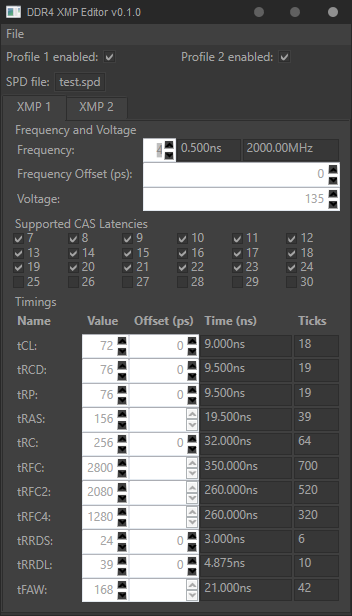
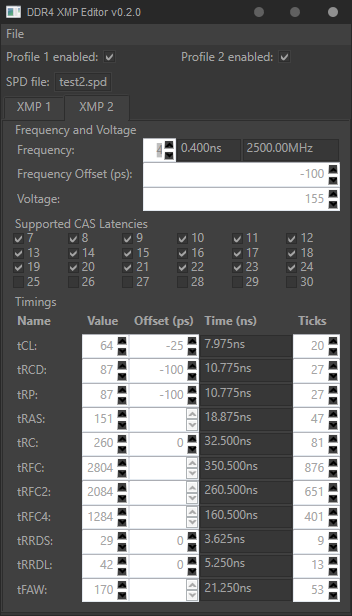
Make ticks column editable

diff --git a/Pages/XMPEditorView.xaml b/Pages/XMPEditorView.xaml
@@ -128,7 +128,8 @@
                                     Maximum="127"/>
                 <TextBox Grid.Row="1" Grid.Column="3" IsReadOnly="True"
                          Text="{Binding tCLTime, StringFormat={}{0:F3}ns, Mode=OneWay}"/>
-                <TextBox Grid.Row="1" Grid.Column="4" IsReadOnly="True" Text="{Binding tCL, Mode=OneWay}"/>
+                <xctk:IntegerUpDown Grid.Row="1" Grid.Column="4" Value="{Binding tCL}" Minimum="0" 
+                                    Maximum="30"/>
 
                 <Label Grid.Row="2" Grid.Column="0" Content="tRCD:"/>
                 <xctk:IntegerUpDown Grid.Row="2" Grid.Column="1" Value="{Binding Profile.RCDTicks}" Minimum="0"
@@ -137,7 +138,8 @@
                                     Maximum="127"/>
                 <TextBox Grid.Row="2" Grid.Column="3" IsReadOnly="True"
                          Text="{Binding tRCDTime, StringFormat={}{0:F3}ns, Mode=OneWay}"/>
-                <TextBox Grid.Row="2" Grid.Column="4" IsReadOnly="True" Text="{Binding tRCD, Mode=OneWay}"/>
+                <xctk:IntegerUpDown Grid.Row="2" Grid.Column="4" Value="{Binding tRCD}" Minimum="0" 
+                                    Maximum="64"/>
                 
                 <Label Grid.Row="3" Grid.Column="0" Content="tRP:"/>
                 <xctk:IntegerUpDown Grid.Row="3" Grid.Column="1" Value="{Binding Profile.RPTicks}" Minimum="0"
@@ -146,7 +148,8 @@
                                     Maximum="127"/>
                 <TextBox Grid.Row="3" Grid.Column="3" IsReadOnly="True"
                          Text="{Binding tRPTime, StringFormat={}{0:F3}ns, Mode=OneWay}"/>
-                <TextBox Grid.Row="3" Grid.Column="4" IsReadOnly="True" Text="{Binding tRP, Mode=OneWay}"/>
+                <xctk:IntegerUpDown Grid.Row="3" Grid.Column="4" Value="{Binding tRP}" Minimum="0" 
+                                    Maximum="64"/>
 
                 <Label Grid.Row="4" Grid.Column="0" Content="tRAS:"/>
                 <xctk:IntegerUpDown Grid.Row="4" Grid.Column="1" Value="{Binding Profile.RASTicks}" Minimum="0"
@@ -155,7 +158,8 @@
                 <TextBox Grid.Row="4" Grid.Column="3" IsReadOnly="True"
                          Text="{Binding Profile.RASTicks, StringFormat={}{0:F3}ns, 
                                 Converter={StaticResource TicksToTimeConverter}}"/>
-                <TextBox Grid.Row="4" Grid.Column="4" IsReadOnly="True" Text="{Binding tRAS, Mode=OneWay}"/>
+                <xctk:IntegerUpDown Grid.Row="4" Grid.Column="4" Value="{Binding tRAS}" Minimum="0" 
+                                    Maximum="128"/>
 
                 <Label Grid.Row="5" Grid.Column="0" Content="tRC:"/>
                 <xctk:IntegerUpDown Grid.Row="5" Grid.Column="1" Value="{Binding Profile.RCTicks}" Minimum="0"
@@ -164,7 +168,8 @@
                                     Maximum="127"/>
                 <TextBox Grid.Row="5" Grid.Column="3" IsReadOnly="True"
                          Text="{Binding tRCTime, StringFormat={}{0:F3}ns, Mode=OneWay}"/>
-                <TextBox Grid.Row="5" Grid.Column="4" IsReadOnly="True" Text="{Binding tRC, Mode=OneWay}"/>
+                <xctk:IntegerUpDown Grid.Row="5" Grid.Column="4" Value="{Binding tRC}" Minimum="0" 
+                                    Maximum="128"/>
 
                 <Label Grid.Row="6" Grid.Column="0" Content="tRFC:"/>
                 <xctk:IntegerUpDown Grid.Row="6" Grid.Column="1" Value="{Binding Profile.RFCTicks}" Minimum="0"
@@ -173,7 +178,8 @@
                 <TextBox Grid.Row="6" Grid.Column="3" IsReadOnly="True"
                          Text="{Binding Profile.RFCTicks, StringFormat={}{0:F3}ns, 
                                 Converter={StaticResource TicksToTimeConverter}}"/>
-                <TextBox Grid.Row="6" Grid.Column="4" IsReadOnly="True" Text="{Binding tRFC, Mode=OneWay}"/>
+                <xctk:IntegerUpDown Grid.Row="6" Grid.Column="4" Value="{Binding tRFC}" Minimum="0" 
+                                    Maximum="1024"/>
 
                 <Label Grid.Row="7" Grid.Column="0" Content="tRFC2:"/>
                 <xctk:IntegerUpDown Grid.Row="7" Grid.Column="1" Value="{Binding Profile.RFC2Ticks}" Minimum="0"
@@ -182,16 +188,18 @@
                 <TextBox Grid.Row="7" Grid.Column="3" IsReadOnly="True"
                          Text="{Binding Profile.RFC2Ticks, StringFormat={}{0:F3}ns, 
                                 Converter={StaticResource TicksToTimeConverter}}"/>
-                <TextBox Grid.Row="7" Grid.Column="4" IsReadOnly="True" Text="{Binding tRFC2, Mode=OneWay}"/>
+                <xctk:IntegerUpDown Grid.Row="7" Grid.Column="4" Value="{Binding tRFC2}" Minimum="0" 
+                                    Maximum="1024"/>
 
                 <Label Grid.Row="8" Grid.Column="0" Content="tRFC4:"/>
                 <xctk:IntegerUpDown Grid.Row="8" Grid.Column="1" Value="{Binding Profile.RFC4Ticks}" Minimum="0"
                                     Maximum="65535"/>
                 <xctk:IntegerUpDown Grid.Row="8" Grid.Column="2" IsEnabled="False"/>
                 <TextBox Grid.Row="8" Grid.Column="3" IsReadOnly="True"
-                         Text="{Binding Profile.RFC2Ticks, StringFormat={}{0:F3}ns, 
+                         Text="{Binding Profile.RFC4Ticks, StringFormat={}{0:F3}ns, 
                                 Converter={StaticResource TicksToTimeConverter}}"/>
-                <TextBox Grid.Row="8" Grid.Column="4" IsReadOnly="True" Text="{Binding tRFC4, Mode=OneWay}"/>
+                <xctk:IntegerUpDown Grid.Row="8" Grid.Column="4" Value="{Binding tRFC4}" Minimum="0" 
+                                    Maximum="1024"/>
 
                 <Label Grid.Row="9" Grid.Column="0" Content="tRRDS:"/>
                 <xctk:IntegerUpDown Grid.Row="9" Grid.Column="1" Value="{Binding Profile.RRDSTicks}" Minimum="0"
@@ -200,8 +208,9 @@
                                     Maximum="127"/>
                 <TextBox Grid.Row="9" Grid.Column="3" IsReadOnly="True"
                          Text="{Binding tRRDSTime, StringFormat={}{0:F3}ns, Mode=OneWay}"/>
-                <TextBox Grid.Row="9" Grid.Column="4" IsReadOnly="True" Text="{Binding tRRDS, Mode=OneWay}"/>
-                
+                <xctk:IntegerUpDown Grid.Row="9" Grid.Column="4" Value="{Binding tRRDS}" Minimum="0" 
+                                    Maximum="64"/>
+
                 <Label Grid.Row="10" Grid.Column="0" Content="tRRDL:"/>
                 <xctk:IntegerUpDown Grid.Row="10" Grid.Column="1" Value="{Binding Profile.RRDLTicks}" Minimum="0"
                                     Maximum="255"/>
@@ -209,8 +218,9 @@
                                     Maximum="127"/>
                 <TextBox Grid.Row="10" Grid.Column="3" IsReadOnly="True"
                          Text="{Binding tRRDLTime, StringFormat={}{0:F3}ns, Mode=OneWay}"/>
-                <TextBox Grid.Row="10" Grid.Column="4" IsReadOnly="True" Text="{Binding tRRDL, Mode=OneWay}"/>
-                
+                <xctk:IntegerUpDown Grid.Row="10" Grid.Column="4" Value="{Binding tRRDL}" Minimum="0" 
+                                    Maximum="64"/>
+
                 <Label Grid.Row="11" Grid.Column="0" Content="tFAW:"/>
                 <xctk:IntegerUpDown Grid.Row="11" Grid.Column="1" Value="{Binding Profile.FAWTicks}" Minimum="0"
                                     Maximum="4095"/>
@@ -218,7 +228,8 @@
                 <TextBox Grid.Row="11" Grid.Column="3" IsReadOnly="True"
                          Text="{Binding Profile.FAWTicks, StringFormat={}{0:F3}ns, 
                                 Converter={StaticResource TicksToTimeConverter}}"/>
-                <TextBox Grid.Row="11" Grid.Column="4" IsReadOnly="True" Text="{Binding tFAW, Mode=OneWay}"/>
+                <xctk:IntegerUpDown Grid.Row="11" Grid.Column="4" Value="{Binding tFAW}" Minimum="0" 
+                                    Maximum="128"/>
             </Grid>
         </GroupBox>
     </StackPanel>

diff --git a/Pages/ShellView.xaml b/Pages/ShellView.xaml
@@ -7,7 +7,7 @@
         xmlns:s="https://github.com/canton7/Stylet"
         mc:Ignorable="d"
         d:DataContext="{d:DesignInstance local:ShellViewModel}"
-        Title="DDR4 XMP Editor v0.1.1" Height="620" Width="360">
+        Title="DDR4 XMP Editor v0.2.0" Height="620" Width="360">
     <StackPanel>
         <ContentControl s:View.Model="{Binding MenuBar}"/>
         <ContentControl s:View.Model="{Binding Editor}"/>

diff --git a/Pages/XMPEditorViewModel.cs b/Pages/XMPEditorViewModel.cs
@@ -111,7 +111,7 @@ namespace DDR4XMPEditor.Pages
                 int? ticks = DRAMTicksToMTBTicks(value);
                 if (ticks.HasValue)
                 {
-                    Profile.RCTicks = (byte)ticks.Value;
+                    Profile.RCTicks = ticks.Value;
                 }
             }
         }
@@ -129,7 +129,7 @@ namespace DDR4XMPEditor.Pages
                 int? ticks = DRAMTicksToMTBTicks(value);
                 if (ticks.HasValue)
                 {
-                    Profile.RASTicks = (byte)ticks.Value;
+                    Profile.RFCTicks = (ushort)ticks.Value;
                 }
             }
         }
@@ -146,7 +146,7 @@ namespace DDR4XMPEditor.Pages
                 int? ticks = DRAMTicksToMTBTicks(value);
                 if (ticks.HasValue)
                 {
-                    Profile.RFC2Ticks = (byte)ticks.Value;
+                    Profile.RFC2Ticks = (ushort)ticks.Value;
                 }
             }
         }
@@ -163,7 +163,7 @@ namespace DDR4XMPEditor.Pages
                 int? ticks = DRAMTicksToMTBTicks(value);
                 if (ticks.HasValue)
                 {
-                    Profile.RFC4Ticks = (byte)ticks.Value;
+                    Profile.RFC4Ticks = (ushort)ticks.Value;
                 }
             }
         }
